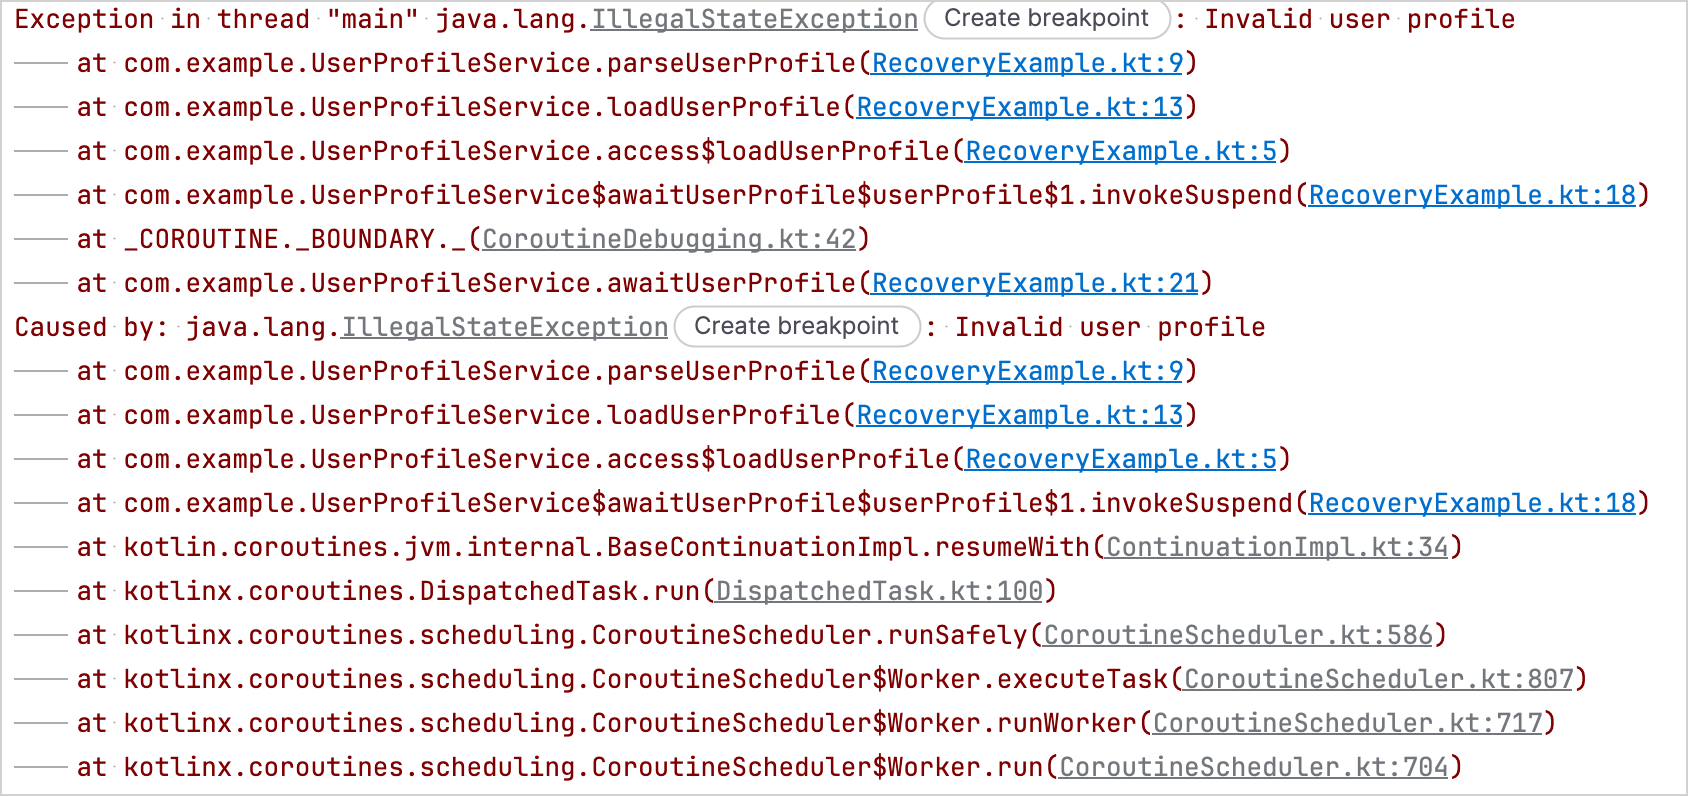
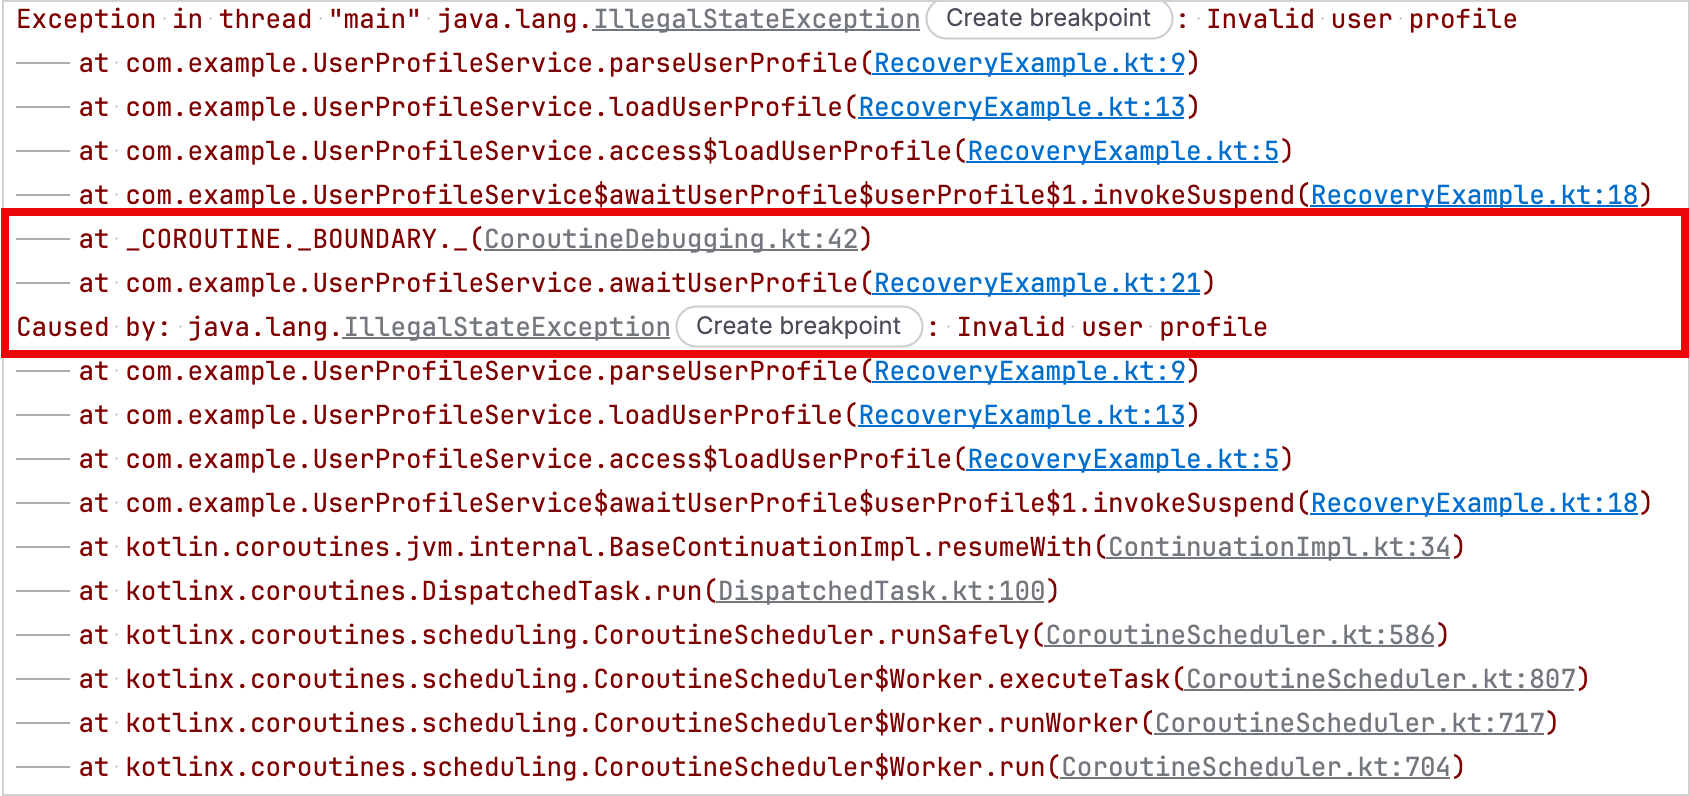
update: implementing comments from Sarah

diff --git a/docs/topics/coroutines-debugging.md b/docs/topics/coroutines-debugging.md
@@ -23,15 +23,12 @@ The debug agent is available in the [`kotlinx-coroutines-debug`](https://kotlinl
 
 Debug mode assigns a unique name to every launched coroutine.
 You can see the coroutine names in a Java debugger, in the coroutine's string representation, and in a thread's name while it runs the coroutine.
-
-> Debug mode has negligible runtime overhead, so you can keep it enabled to simplify logging and diagnostics.
->
-{style="tip"}
+Debug mode has negligible runtime overhead, so you can keep it enabled to simplify logging and diagnostics.
 
 When you run your code with Java assertions enabled, the `kotlinx.coroutines` library automatically enables debug mode.
 Unit tests run with assertions enabled by default, so you don't need to enable debug mode explicitly for them.
 
-To enable debug mode explicitly, pass the `-Dkotlinx.coroutines.debug` VM option in your build tool or IDE run configuration.
+To enable debug mode explicitly, configure your build tool or IDE run configuration to pass the `-Dkotlinx.coroutines.debug` argument to the JVM that runs your application.
 
 In IntelliJ IDEA, follow these steps to enable debug mode:
 
@@ -40,31 +37,32 @@ In IntelliJ IDEA, follow these steps to enable debug mode:
    ![Selecting Edit from the More Actions menu for a run configuration in IntelliJ IDEA](coroutines-debug-mode-more-options.png){width="600"}
 
    > If you don't have a run/debug configuration, select **Current File** in the **Run widget**, then select **More Actions** | **Run with Parameters** to open the run configuration settings.
+   > 
+   > ![Selecting Run with Parameters from the More Actions menu for a run configuration in IntelliJ IDEA](coroutines-debug-mode-run-with-parms.png){width="600"}
    >
    {style="note"}
 
-2. In the **Run/Debug Configurations** dialog, enter `-Dkotlinx.coroutines.debug` in the **VM options** field:
+2. In the **Run/Debug Configurations** dialog, enter `-Dkotlinx.coroutines.debug` in the **VM options** field, and click **OK**:
 
    ![Adding the -Dkotlinx.coroutines.debug option to a run/debug configuration in IntelliJ IDEA](run-debug-configuration.png){width="600"}
-
-3. Click **OK**.
 
 ## Stack trace recovery
 
 When a coroutine receives an exception from another coroutine through a suspending function such as `Deferred.await()`,
 the exception's stack trace doesn't contain the stack frames from the receiving coroutine.
-Without these stack frames, the stack trace doesn't show where `await()` is called or which functions lead to that call.
+Without these stack frames, the stack trace doesn't show where `Deferred.await()` is called or which functions lead to that call, which can make debugging difficult.
 
 The `kotlinx.coroutines` library adds this information using _stack trace recovery_, which creates a copy of the exception with additional stack frames.
 
-When the receiving coroutine resumes, it throws the copy instead of the original exception, which becomes the cause of the copy.
+When the receiving coroutine resumes, it throws the copy instead of the original exception.
+The original exception becomes the cause of the copy.
 If the original exception has suppressed exceptions, they remain attached to it instead of being copied.
-This can prevent cycles in the exception chain and crashes in some frameworks.
+Keeping them attached to the original exception can prevent cycles in the exception chain and crashes in some frameworks.
 
 Debug mode enables stack trace recovery by default.
 To disable stack trace recovery in debug mode, pass the `-Dkotlinx.coroutines.stacktrace.recovery=false` VM option.
 
-Here's an example that demonstrates the difference between stack traces with and without stack trace recovery:
+Here's an example to demonstrate the difference between stack traces with and without stack trace recovery:
 
 ```kotlin
 import kotlinx.coroutines.*
@@ -100,7 +98,7 @@ suspend fun main() {
 ```
 
 In this example, the `parseUserProfile()` function throws the exception in the coroutine started by the `.async()` builder function.
-The coroutine that calls `awaitUserProfile()` receives the exception through `Deferred.await()`.
+The coroutine that calls `awaitUserProfile()` receives the exception through the `Deferred.await()` function.
 
 With stack trace recovery disabled, the stack trace shows where `parseUserProfile()` throws the exception in the coroutine created by the `.async()` function,
 but it doesn't include the `Deferred.await()` call in the `awaitUserProfile()` function:
@@ -114,7 +112,7 @@ With stack trace recovery enabled, the stack trace also includes the `Deferred.a
 ### Stack trace recovery for custom exceptions
 <primary-label ref="experimental-opt-in"/>
 
-Stack trace recovery can copy an exception automatically when its class has a public constructor that accepts a message, a cause, both, or no arguments.
+Stack trace recovery can copy an exception automatically when its class has a public constructor that accepts a message, a cause, both, or no arguments at all.
 
 If you want the `kotlinx.coroutines` library to recover the stack trace of an exception that requires additional constructor arguments,
 such as a line number or an error code, implement the `StackTraceRecoverable` interface.
@@ -208,7 +206,6 @@ The agent tracks coroutines as they are created, suspended, and resumed.
 The [`DebugProbes`](https://kotlinlang.org/api/kotlinx.coroutines/kotlinx-coroutines-debug/kotlinx.coroutines.debug/-debug-probes/) API is the main entry point for the debug agent.
 You can use it to print active coroutines and their current state.
 The output includes stack traces that show where each coroutine was created and where it is suspended.
-
 You can also use it to print a coroutine dump for the hierarchy of a specific `Job` or `CoroutineScope`.
 
 If you enable `DebugProbes` in a production environment, it can significantly reduce your application's performance when it creates a stack trace for each new coroutine.
@@ -255,8 +252,8 @@ dependencies {
 
 To start tracking coroutines with the debug agent, you can either:
 
-* Call the [`DebugProbes.install()`](https://kotlinlang.org/api/kotlinx.coroutines/kotlinx-coroutines-debug/kotlinx.coroutines.debug/-debug-probes/install.html) function before starting the coroutines you want to track.
 * Add `-javaagent:/path/to/kotlinx-coroutines-debug-%coroutinesVersion%.jar` to your VM options to load the debug agent when the application starts.
+* Call the [`DebugProbes.install()`](https://kotlinlang.org/api/kotlinx.coroutines/kotlinx-coroutines-debug/kotlinx.coroutines.debug/-debug-probes/install.html) function before starting the coroutines you want to track.
 
 > Starting with JDK 21, dynamically loading the debug agent with the `DebugProbes.install()` function can produce a warning.
 > To avoid this warning, load the agent with the `-javaagent` VM option.
@@ -526,7 +523,7 @@ kotlinx.coroutines.debug.junit5.CoroutinesTimeoutException: test timed out after
 ```
 {collapsible="true" collapsed-title="CoroutinesTimeout JUnit5 example output"}
 
-### Limitations on Android
+### Resolve `kotlinx-coroutines-debug` resource conflicts on Android
 
 The debug agent isn't supported on Android.
 
@@ -559,3 +556,7 @@ android {
     }
 }
 ```
+
+## What's next
+
+* Learn how to debug coroutines in IntelliJ IDEA in [Debug coroutines using IntelliJ IDEA](debug-coroutines-with-idea.md) and [Debug Kotlin Flow using IntelliJ IDEA](debug-flow-with-idea.md).

diff --git a/docs/topics/coroutines-basics.md b/docs/topics/coroutines-basics.md
@@ -235,7 +235,7 @@ You may notice that the output order and thread names may change each time you r
 > You can display coroutine names next to thread names in the output of your code for additional information.
 > To do so, pass the `-Dkotlinx.coroutines.debug` VM option in your build tool or IDE run configuration.
 >
-> See [Debugging coroutines](coroutines-debugging.md) for more information.
+> See [Debug coroutines](coroutines-debugging.md) for more information.
 >
 {style="tip"}
 

diff --git a/docs/topics/coroutines-and-channels.md b/docs/topics/coroutines-and-channels.md
@@ -2,7 +2,7 @@
 
 [//]: # (title: Coroutines and channels − tutorial)
 
-> We plan to revise this tutorial. For an up-to-date guide to getting started with coroutines, see [Coroutines basics](coroutines-basics.md).
+> An upcoming update will revise this tutorial. In the meantime, for an up-to-date guide to getting started with coroutines, see [Coroutines basics](coroutines-basics.md).
 > 
 {style="note"}
 
